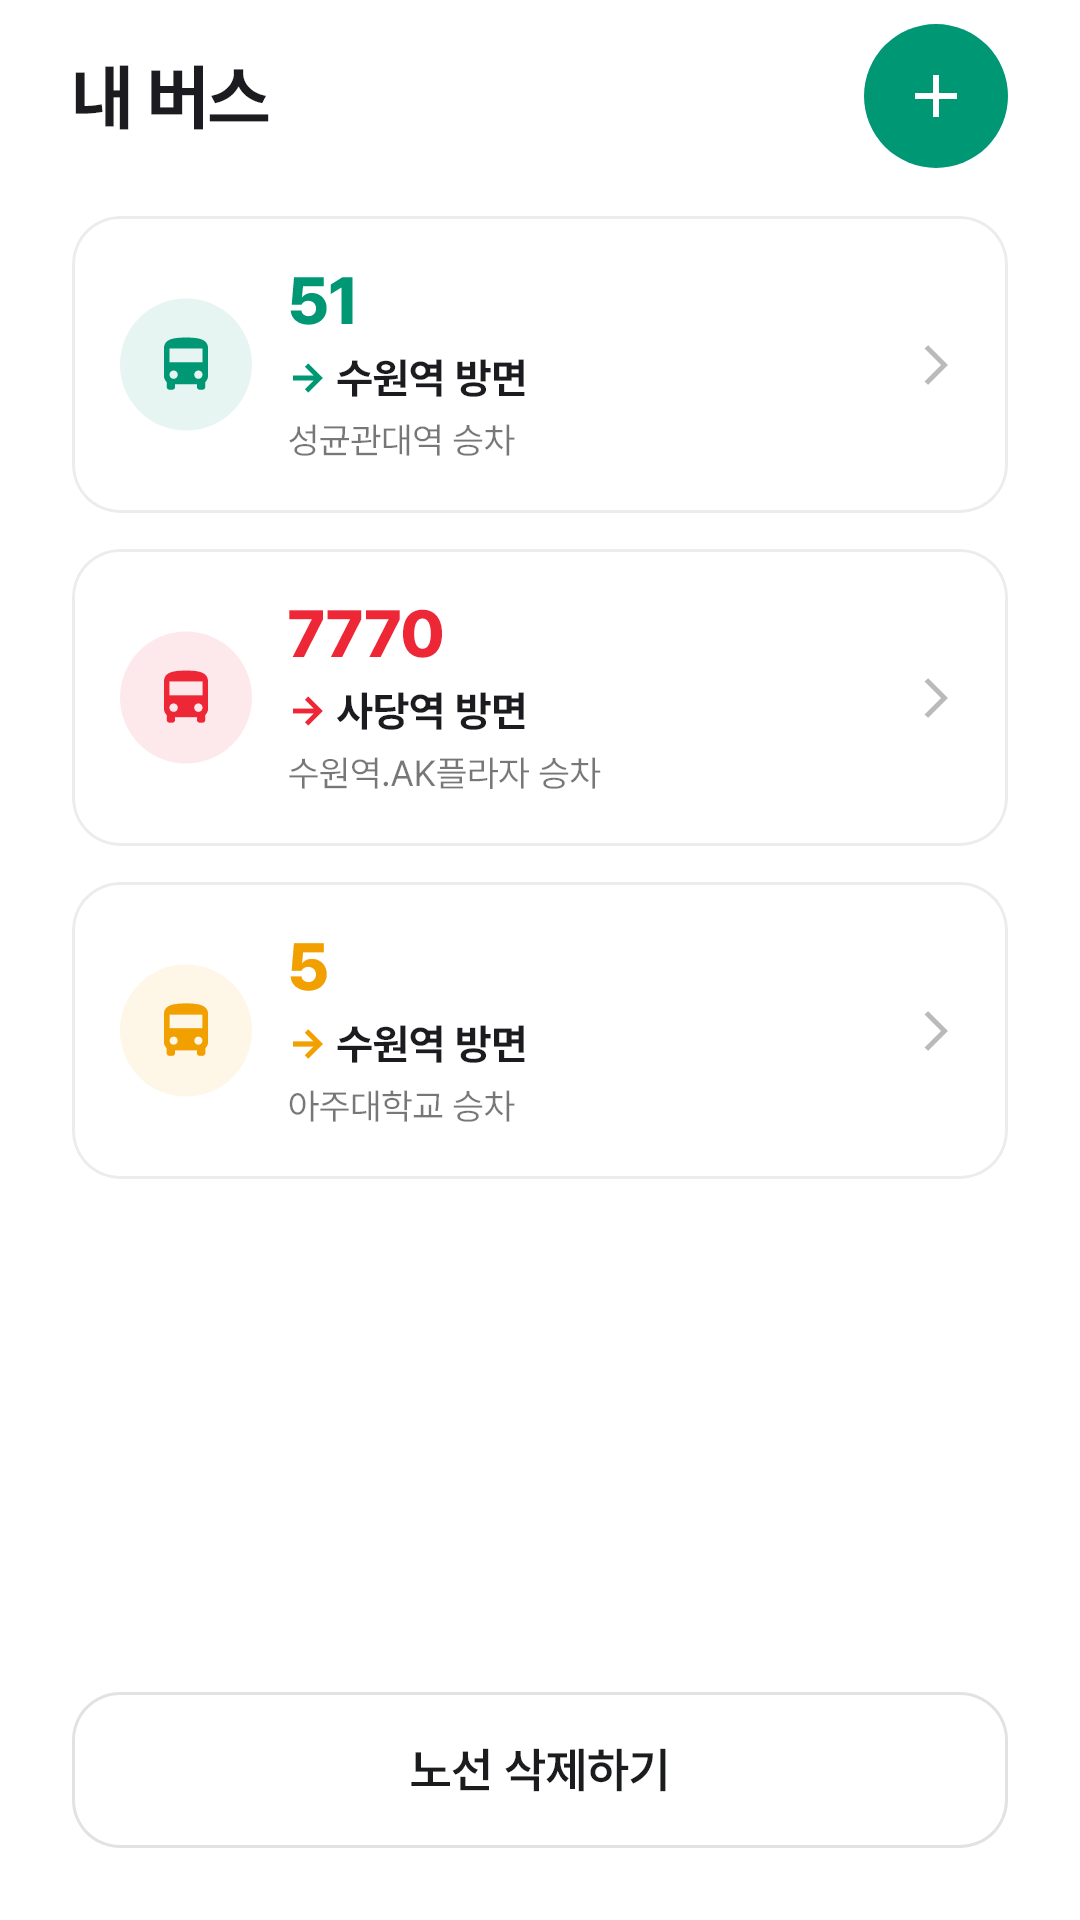
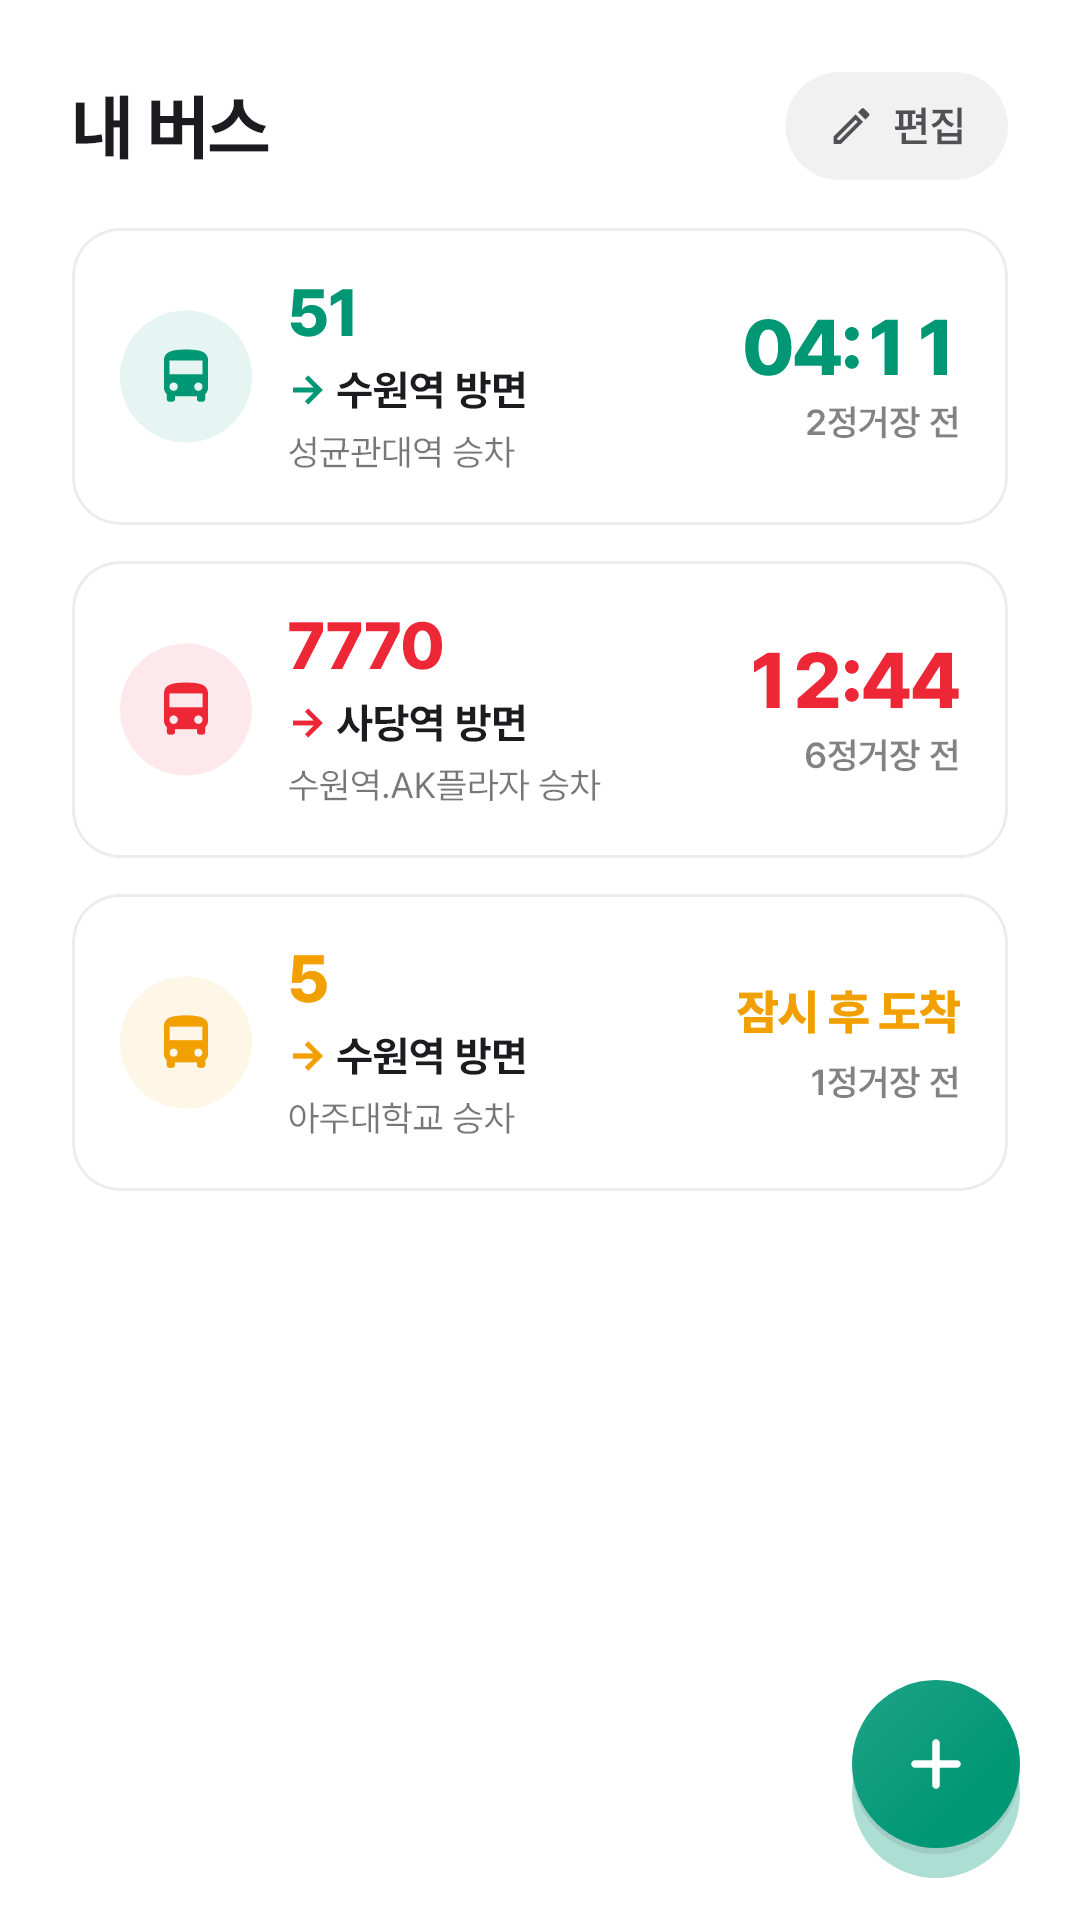
스토어 스크린샷을 현재 화면에 맞춰 다시 만들고 웰컴 문구에서 출퇴근을 뺀다
비공개 테스트에 올린 스크린샷은 9/2 생성본이라 그 뒤 바뀐 리스트(카드 도착 시간·편집·
플로팅 버튼)와 상세(도착 알림 버튼)를 반영하지 못했고, 생성기는 상세 화면이 요구하는
BusTrackingService 를 등록하지 않아 에러 화면을 저장했다. 생성기에 테스트용 가짜 알림
서비스와 노선 저장소를 넣고, 온보딩은 지도 뷰모델을 만드는 InitSettingScreen 대신
InitSettingView 에 단계 상태를 직접 주입해 리스트·상세(알림 켜짐)·노선 선택·노선 확인·
웰컴 5장을 만든다. 웰컴 문구는 출퇴근에 한정하지 않도록 "매일 같은 버스를 기다리는
당신을 위한"으로 바꾼다.

diff --git a/bus_51/tool/store/generate_store_assets_test.dart b/bus_51/tool/store/generate_store_assets_test.dart
@@ -4,13 +4,16 @@
 //   flutter test tool/store/generate_store_assets_test.dart
 //
 // 생성 (store_assets/):
-//   feature_graphic.png       1024×500  그래픽 이미지
-//   screenshot_1_list.png     1080×1920 내 버스 리스트
-//   screenshot_2_arrival.png  1080×1920 도착 정보
-//   screenshot_3_route.png    1080×1920 노선 확인
+//   feature_graphic.png             1024×500  그래픽 이미지
+//   screenshot_1_list.png           1080×1920 내 버스 리스트 (카드마다 실시간 도착 시간)
+//   screenshot_2_arrival.png        1080×1920 도착 정보 (도착 알림 켜짐)
+//   screenshot_3_route_select.png   1080×1920 온보딩 노선 선택 (여러 노선 체크)
+//   screenshot_4_route_confirm.png  1080×1920 온보딩 노선 확인
+//   screenshot_5_welcome.png        1080×1920 온보딩 웰컴
 //
-// 스크린샷은 실제 화면 위젯을 샘플 데이터(가짜 저장소/API)로 띄워 캡처한다.
+// 스크린샷은 실제 화면 위젯을 샘플 데이터(가짜 저장소·API·알림 서비스)로 띄워 캡처한다.
 // 실기기 없이도 만들 수 있고, UI가 바뀌면 다시 실행해 갱신한다.
+// 정류장 지도 화면은 네이버 지도 SDK 가 있어야 그려지므로 여기서는 만들지 않는다.
 // test/ 밖에 두어 `flutter test` 전체 실행에는 포함되지 않는다.
 import 'dart:io';
 import 'dart:ui' as ui;
@@ -18,15 +21,20 @@ import 'dart:ui' as ui;
 import 'package:bus_51/model/bus_arrival_model.dart';
 import 'package:bus_51/model/bus_routestation_model.dart';
 import 'package:bus_51/model/busroute_model.dart';
+import 'package:bus_51/model/busstation_model.dart';
 import 'package:bus_51/model/user_save_model.dart';
 import 'package:bus_51/provider/init_provider.dart';
 import 'package:bus_51/repository/bus_arrival_repository.dart';
+import 'package:bus_51/repository/bus_route_repository.dart';
 import 'package:bus_51/repository/bus_routestation_repository.dart';
 import 'package:bus_51/screen/init_setting_screen/init_setting_screen.dart';
 import 'package:bus_51/screen/main_screen/bus_list_screen.dart';
 import 'package:bus_51/screen/main_screen/bus_main_screen.dart';
 import 'package:bus_51/service/storage_service.dart';
 import 'package:bus_51/theme/light_theme.dart';
+import 'package:bus_51/tracking/bus_tracking_service.dart';
+import 'package:bus_51/tracking/bus_tracking_target.dart';
+import 'package:bus_51/viewmodel/route_setting_view_model.dart';
 import 'package:flutter/material.dart';
 import 'package:flutter/rendering.dart';
 import 'package:flutter/services.dart';
@@ -38,12 +46,25 @@ import 'package:shared_preferences/shared_preferences.dart';
 import 'package:shared_preferences_platform_interface/in_memory_shared_preferences_async.dart';
 import 'package:shared_preferences_platform_interface/shared_preferences_async_platform_interface.dart';
 
+import '../../test/tracking/fake_bus_tracking_service.dart';
 import '../icon/bus_icon_painter.dart';
 
 const _outDir = 'store_assets';
 
-// ----- 샘플 데이터 (수원 51번, 성균관대역 탑승) -----
+// ----- 샘플 데이터 (수원 성균관대역 탑승, 51번 기준) -----
 
+/// 온보딩에서 고른 정류장
+const _station = BusStationModel(
+  mobileNo: '04104',
+  regionName: '수원',
+  stationId: '226000064',
+  stationName: '성균관대역',
+  distance: '35',
+  x: '126.9738',
+  y: '37.2999',
+);
+
+/// 51번이 지나는 정류장 (노선 확인 화면 타임라인)
 const _stationNames = [
   '수원여자대학교',
   '이목동',
@@ -71,6 +92,63 @@ const _route51 = BusRouteModel(
   staOrder: '$_staOrder',
 );
 
+const _route3000 = BusRouteModel(
+  regionName: '수원',
+  routeDestId: '0',
+  routeDestName: '강남역',
+  routeId: '234000024',
+  routeName: '3000',
+  routeTypeCd: '11',
+  routeTypeName: '직행좌석시내버스',
+  staOrder: '12',
+);
+
+/// 노선 선택 화면 목록. 앞의 두 개(51·3000)를 체크한 상태로 캡처한다
+const _routesAtStation = [
+  _route51,
+  _route3000,
+  BusRouteModel(
+    regionName: '수원',
+    routeDestId: '0',
+    routeDestName: '수원역',
+    routeId: '200000103',
+    routeName: '7-2',
+    routeTypeCd: '13',
+    routeTypeName: '일반형시내버스',
+    staOrder: '9',
+  ),
+  BusRouteModel(
+    regionName: '수원',
+    routeDestId: '0',
+    routeDestName: '병점',
+    routeId: '200000068',
+    routeName: '62-1',
+    routeTypeCd: '13',
+    routeTypeName: '일반형시내버스',
+    staOrder: '7',
+  ),
+  BusRouteModel(
+    regionName: '수원',
+    routeDestId: '0',
+    routeDestName: '수원역',
+    routeId: '200000059',
+    routeName: '92-1',
+    routeTypeCd: '13',
+    routeTypeName: '일반형시내버스',
+    staOrder: '4',
+  ),
+  BusRouteModel(
+    regionName: '수원',
+    routeDestId: '0',
+    routeDestName: '정자동',
+    routeId: '200000301',
+    routeName: '2-1',
+    routeTypeCd: '30',
+    routeTypeName: '마을버스',
+    staOrder: '6',
+  ),
+];
+
 List<BusRouteStationModel> _routeStations() => [
       for (var i = 0; i < _stationNames.length; i++)
         BusRouteStationModel(
@@ -89,21 +167,7 @@ List<BusRouteStationModel> _routeStations() => [
         ),
     ];
 
-const _arrival = BusArrivalModel(
-  predictTime1: '4',
-  predictTime2: '11',
-  predictTimeSec1: '252',
-  predictTimeSec2: '660',
-  locationNo1: '2',
-  locationNo2: '4',
-  stationNm1: '밤밭청개구리공원',
-  stationNm2: '수원여자대학교',
-  flag: 'PASS', // 실시간 표시 조건
-  routeDestName: '수원역',
-  routeId: '208000017',
-  stationId: '226000064',
-);
-
+/// 내 버스 리스트에 저장된 노선 (리스트 화면 순서)
 const _savedBuses = [
   UserSaveModel(
     routeName: '51',
@@ -134,6 +198,71 @@ const _savedBuses = [
   ),
 ];
 
+/// 저장 노선별 도착 정보 (routeId → 응답). 카드마다 다르게 줘서 실제 화면처럼 보이게 한다:
+/// 51 은 4분 뒤, 7770 은 12분 뒤, 5 는 "잠시 후 도착"
+const _arrivals = <String, BusArrivalModel>{
+  '208000017': BusArrivalModel(
+    predictTime1: '4',
+    predictTime2: '11',
+    predictTimeSec1: '252',
+    predictTimeSec2: '660',
+    locationNo1: '2',
+    locationNo2: '4',
+    stationNm1: '밤밭청개구리공원',
+    stationNm2: '수원여자대학교',
+    flag: 'PASS', // 실시간 표시 조건
+    routeDestName: '수원역',
+    routeId: '208000017',
+    stationId: '226000064',
+    staOrder: '$_staOrder',
+    plateNo1: '경기70아1234',
+  ),
+  '234000016': BusArrivalModel(
+    predictTime1: '12',
+    predictTime2: '23',
+    predictTimeSec1: '765',
+    predictTimeSec2: '1380',
+    locationNo1: '6',
+    locationNo2: '11',
+    stationNm1: '수원종합운동장',
+    stationNm2: '장안구청',
+    flag: 'PASS',
+    routeDestName: '사당역',
+    routeId: '234000016',
+    stationId: '226000070',
+    staOrder: '3',
+    plateNo1: '경기70아5678',
+  ),
+  '200000228': BusArrivalModel(
+    predictTime1: '1',
+    predictTime2: '9',
+    predictTimeSec1: '40',
+    predictTimeSec2: '540',
+    locationNo1: '1',
+    locationNo2: '4',
+    stationNm1: '아주대삼거리',
+    stationNm2: '우만주공아파트',
+    flag: 'PASS',
+    routeDestName: '수원역',
+    routeId: '200000228',
+    stationId: '226000031',
+    staOrder: '8',
+    plateNo1: '경기70아9012',
+  ),
+};
+
+/// 상세 화면(51번)에서 도착 알림이 켜져 있는 상태
+const _trackingTarget = BusTrackingTarget(
+  stationId: 226000064,
+  routeId: 208000017,
+  staOrder: _staOrder,
+  routeName: '51',
+  plateNo: '경기70아1234',
+  remainingSeconds: 252,
+);
+
+// ----- 가짜 데이터 계층 -----
+
 class _FakeArrivalRepository implements BusArrivalRepository {
   @override
   Future<BusArrivalModel?> getArrival({
@@ -141,29 +270,20 @@ class _FakeArrivalRepository implements BusArrivalRepository {
     required String routeId,
     required String staOrder,
   }) async =>
-      _arrival;
+      _arrivals[routeId];
 
-  /// 리스트 화면용: 그 정류장에 저장된 노선마다 같은 도착 정보를 routeId·staOrder 만 맞춰 돌려준다
+  /// 리스트 화면용: 그 정류장에 저장된 노선의 도착 정보만 돌려준다 (routeId·staOrder 로 카드에 매칭)
   @override
   Future<List<BusArrivalModel>> getArrivalsAtStation({required String stationId}) async => [
-        for (final bus in _savedBuses)
-          if (bus.stationId.toString() == stationId)
-            BusArrivalModel(
-              predictTime1: _arrival.predictTime1,
-              predictTime2: _arrival.predictTime2,
-              predictTimeSec1: _arrival.predictTimeSec1,
-              predictTimeSec2: _arrival.predictTimeSec2,
-              locationNo1: _arrival.locationNo1,
-              locationNo2: _arrival.locationNo2,
-              stationNm1: _arrival.stationNm1,
-              stationNm2: _arrival.stationNm2,
-              flag: _arrival.flag,
-              routeDestName: bus.routeDestName,
-              routeId: bus.routeId.toString(),
-              stationId: stationId,
-              staOrder: bus.staOrder.toString(),
-            ),
+        for (final arrival in _arrivals.values)
+          if (arrival.stationId == stationId) arrival,
       ];
+}
+
+class _FakeRouteRepository implements BusRouteRepository {
+  @override
+  Future<List<BusRouteModel>> getRoutesThroughStation({required String stationId}) async =>
+      _routesAtStation;
 }
 
 class _FakeRouteStationRepository implements BusRouteStationRepository {
@@ -200,7 +320,32 @@ Future<void> _loadFonts() async {
   await (FontLoader('MaterialIcons')..addFont(_fileBytes(icons))).load();
 }
 
-// ----- 캡처 -----
+// ----- 화면 구성 -----
+
+/// 온보딩을 [step] 단계까지 진행한 상태의 InitProvider.
+/// welcome: ① 웰컴 / select: ③ 노선 선택(51·3000 체크) / confirm: ④ 노선 확인
+InitProvider _initProviderAt(String step) {
+  final init = InitProvider();
+  if (step == 'welcome') return init;
+  init
+    ..setSelectedStationModel(_station)
+    ..nextAccountView() // ② 정류장 지도 (캡처하지 않음)
+    ..nextAccountView() // ③ 노선 선택
+    ..toggleSelectedRoute(_routesAtStation[0])
+    ..toggleSelectedRoute(_routesAtStation[1]);
+  if (step == 'confirm') init.nextAccountView(); // ④ 노선 확인
+  return init;
+}
+
+/// InitSettingScreen 은 GetIt 에서 지도 뷰모델(GPS)까지 만들므로,
+/// 여기서는 단계 상태와 노선 뷰모델만 직접 넣어 InitSettingView 를 띄운다
+Widget _onboarding(String step) => MultiProvider(
+      providers: [
+        ChangeNotifierProvider(create: (_) => _initProviderAt(step)),
+        ChangeNotifierProvider(create: (_) => RouteSettingViewModel(_FakeRouteRepository())),
+      ],
+      child: const InitSettingView(),
+    );
 
 GoRouter _router(String initialLocation) => GoRouter(
       initialLocation: initialLocation,
@@ -220,17 +365,12 @@ GoRouter _router(String initialLocation) => GoRouter(
         GoRoute(
           name: InitSettingScreen.routeName,
           path: InitSettingScreen.routeURL,
-          // 노선 추가 플로우의 마지막 단계(노선 확인)까지 진행한 상태로 온보딩 화면을 띄운다
-          builder: (_, __) => ChangeNotifierProvider(
-            create: (_) => InitProvider(startIdx: InitProvider.stationStepIdx)
-              ..toggleSelectedRoute(_route51)
-              ..nextAccountView()
-              ..nextAccountView(),
-            child: const InitSettingView(),
-          ),
+          builder: (_, state) => _onboarding(state.uri.queryParameters['step'] ?? 'welcome'),
         ),
       ],
     );
+
+// ----- 캡처 -----
 
 Future<void> _writePng(ui.Image image, String name) async {
   final bytes = await image.toByteData(format: ui.ImageByteFormat.png);
@@ -294,6 +434,8 @@ Future<void> _featureGraphic() async {
 }
 
 void main() {
+  late FakeBusTrackingService tracking;
+
   setUp(() async {
     SharedPreferencesAsyncPlatform.instance = InMemorySharedPreferencesAsync.empty();
     final prefs = await SharedPreferencesWithCache.create(
@@ -303,9 +445,11 @@ void main() {
     for (final bus in _savedBuses) {
       await storage.addUserSaveModel(bus);
     }
+    tracking = FakeBusTrackingService();
     GetIt.I.registerSingleton<StorageService>(storage);
     GetIt.I.registerSingleton<BusArrivalRepository>(_FakeArrivalRepository());
     GetIt.I.registerSingleton<BusRouteStationRepository>(_FakeRouteStationRepository());
+    GetIt.I.registerSingleton<BusTrackingService>(tracking);
   });
 
   tearDown(() async => GetIt.I.reset());
@@ -318,8 +462,15 @@ void main() {
     await tester.runAsync(_loadFonts);
 
     await _captureScreen(tester, BusListScreen.routeURL, 'screenshot_1_list.png');
+
+    // 상세 화면은 51번 도착 알림을 켜 둔 상태로 (서비스가 이 버스를 추적 중이면 "알림 켜짐"으로 그린다)
+    tracking.running = _trackingTarget;
     await _captureScreen(tester, '${BusMainScreen.routeURL}?idx=0', 'screenshot_2_arrival.png');
-    await _captureScreen(tester, InitSettingScreen.routeURL, 'screenshot_3_route.png');
+    tracking.running = null;
+
+    await _captureScreen(tester, '${InitSettingScreen.routeURL}?step=select', 'screenshot_3_route_select.png');
+    await _captureScreen(tester, '${InitSettingScreen.routeURL}?step=confirm', 'screenshot_4_route_confirm.png');
+    await _captureScreen(tester, '${InitSettingScreen.routeURL}?step=welcome', 'screenshot_5_welcome.png');
 
     await tester.runAsync(_featureGraphic);
 

diff --git a/bus_51/lib/screen/init_setting_screen/explain_screen.dart b/bus_51/lib/screen/init_setting_screen/explain_screen.dart
@@ -115,7 +115,7 @@ class _ExplainScreenViewState extends State<ExplainScreenView> {
           ),
           const SizedBox(height: AppSpacing.xl),
           Text(
-            "매일 같은 버스로\n출퇴근하는 당신을 위한",
+            "매일 같은 버스를\n기다리는 당신을 위한",
             style: context.textStyle.headlineMedium.copyWith(
               color: colorScheme.onSurface,
               height: 1.4,
